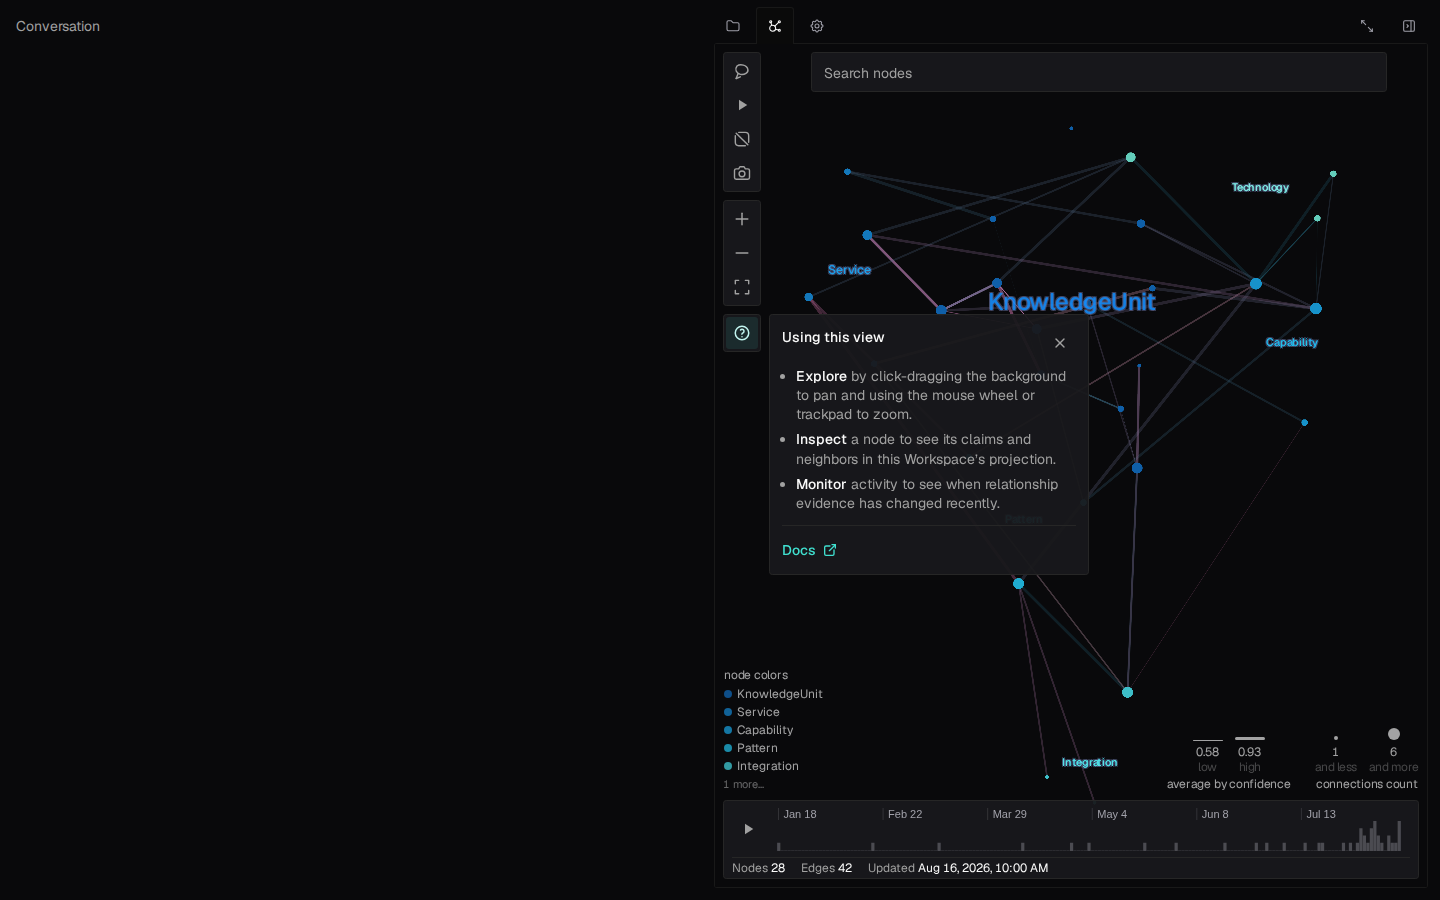
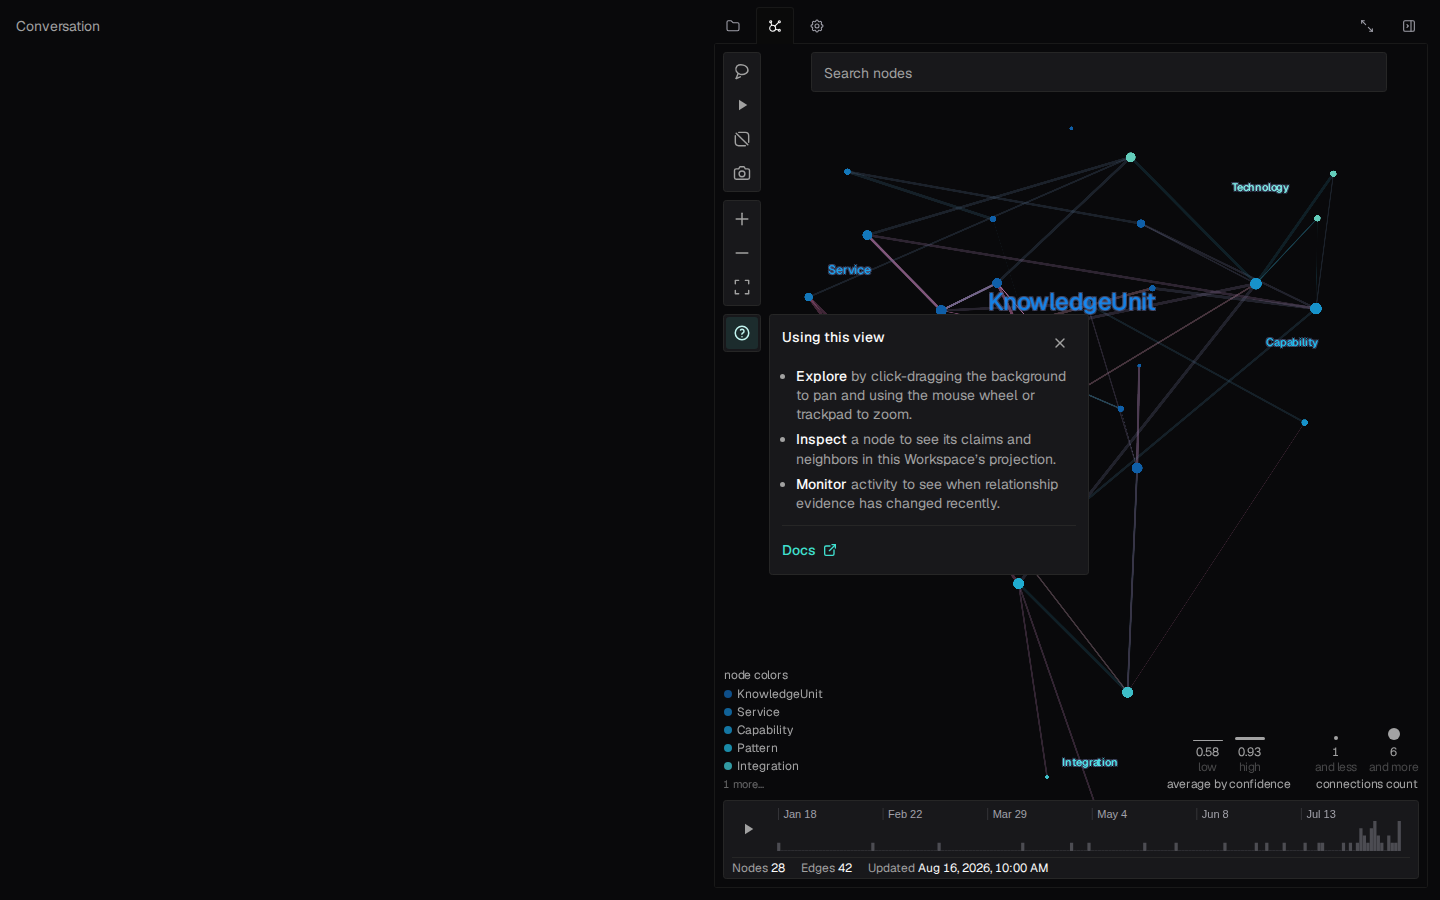
Opaque surface for the floating panels over the knowledge graph (#960)
* Opaque surface for the floating panels over the knowledge graph (CTX-1477)

The shared FloatingPanel used bg-zinc-900/95, so graph lines and labels
showed through the help panel text. The panel is now opaque. The search
box, the tool rail and the stock panels of the graph canvas now use
FloatingPanel, so they have the same surface.

* Patch changeset for aws-cdk; remove the StockPanel wrapper

---------

Changed region(s): [[0.5625, 0.3733, 0.75, 0.56], [0.6562, 0.9333, 0.6875, 0.9644], [0.5938, 0.0622, 0.625, 0.0933]]

diff --git a/apps/ui/src/features/knowledge-graph/KnowledgeGraphCosmographCanvas.tsx b/apps/ui/src/features/knowledge-graph/KnowledgeGraphCosmographCanvas.tsx
@@ -26,6 +26,7 @@ import {
 import { Button } from "@/components/ui/Button"
 import { cn } from "@/lib/utils"
 
+import { FloatingPanel } from "./FloatingPanel"
 import { GraphWaitState } from "./GraphWaitState"
 import { buildFocusFitTarget } from "./knowledgeGraphFocusFit"
 import {
@@ -853,12 +854,12 @@ export const KnowledgeGraphCosmographCanvas = forwardRef<
               inert={drawerOpen}
             >
               <div className="flex h-10 w-full max-w-xl items-stretch gap-3">
-                <div className="min-w-0 flex-1 rounded-md border border-border bg-zinc-900/95 px-3 py-1.5">
+                <FloatingPanel className="min-w-0 flex-1 px-3 py-1.5">
                   <FallbackGraphSearch
                     points={points}
                     onFocusIds={focusSearchIds}
                   />
-                </div>
+                </FloatingPanel>
                 {centerControls ? (
                   <div className="flex items-center" aria-hidden>
                     <div className="h-5 w-px bg-zinc-800/95" />
@@ -877,7 +878,7 @@ export const KnowledgeGraphCosmographCanvas = forwardRef<
             >
               <LegendDock />
               <div className="pointer-events-auto">
-                <StockPanel className="px-2 py-1">
+                <FloatingPanel className="px-2 py-1 text-foreground">
                   <div className="flex items-center gap-1">
                     {observedRange ? (
                       <GraphControlButton
@@ -904,7 +905,7 @@ export const KnowledgeGraphCosmographCanvas = forwardRef<
                       {footerMetadata}
                     </div>
                   ) : null}
-                </StockPanel>
+                </FloatingPanel>
               </div>
             </div>
           </>
@@ -1124,25 +1125,6 @@ const NativeObservationTimeline = forwardRef<
   )
 })
 
-function StockPanel({
-  children,
-  className = "",
-}: {
-  children: ReactNode
-  className?: string
-}) {
-  return (
-    <div
-      className={cn(
-        "rounded-md border border-border bg-zinc-900/95 p-3 text-foreground",
-        className,
-      )}
-    >
-      {children}
-    </div>
-  )
-}
-
 function GraphControlButton({
   active = false,
   children,
@@ -1173,9 +1155,9 @@ function GraphControlButton({
 
 function ToolRail({ children }: { children: ReactNode }) {
   return (
-    <div className="flex flex-col items-center gap-0.5 rounded-md border border-border bg-zinc-900/95 p-0.5 text-muted-foreground">
+    <FloatingPanel className="flex flex-col items-center gap-0.5 p-0.5 text-muted-foreground">
       {children}
-    </div>
+    </FloatingPanel>
   )
 }
 

diff --git a/apps/ui/src/features/knowledge-graph/FloatingPanel.tsx b/apps/ui/src/features/knowledge-graph/FloatingPanel.tsx
@@ -20,10 +20,7 @@ export function FloatingPanel({
 }) {
   return (
     <div
-      className={cn(
-        "rounded-md border border-border bg-zinc-900/95",
-        className,
-      )}
+      className={cn("rounded-md border border-border bg-zinc-900", className)}
       {...(role ? { role } : {})}
       {...(ariaLabel ? { "aria-label": ariaLabel } : {})}
     >

diff --git a/.changeset/opaque-graph-panels.md b/.changeset/opaque-graph-panels.md
@@ -1,0 +1,5 @@
+---
+"@ctxpipe/aws-cdk": patch
+---
+
+The floating panels over the knowledge graph have an opaque surface, so graph lines and labels do not show through their text.
